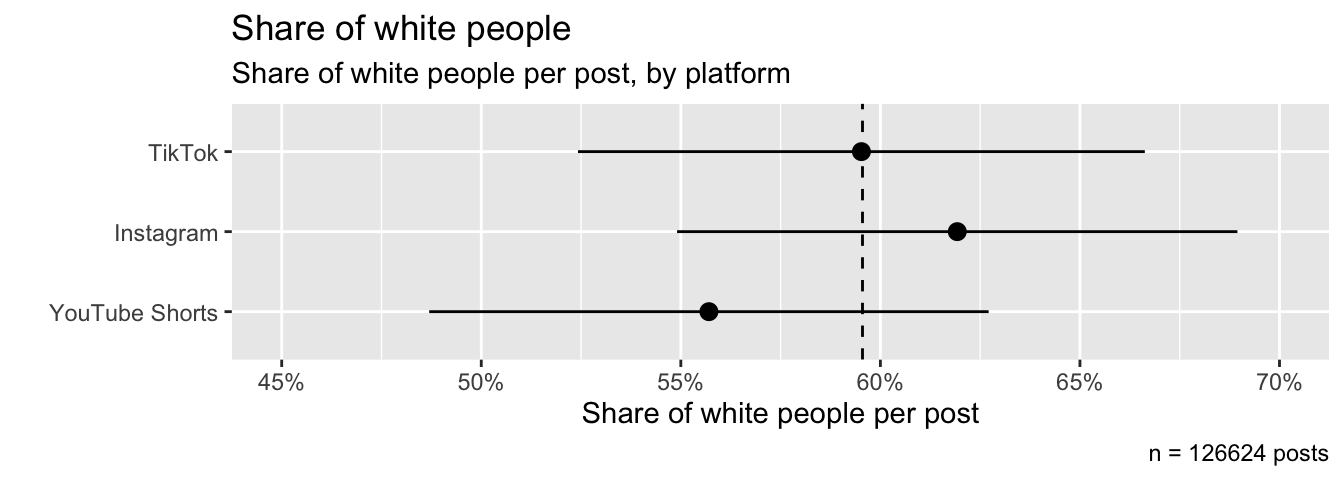
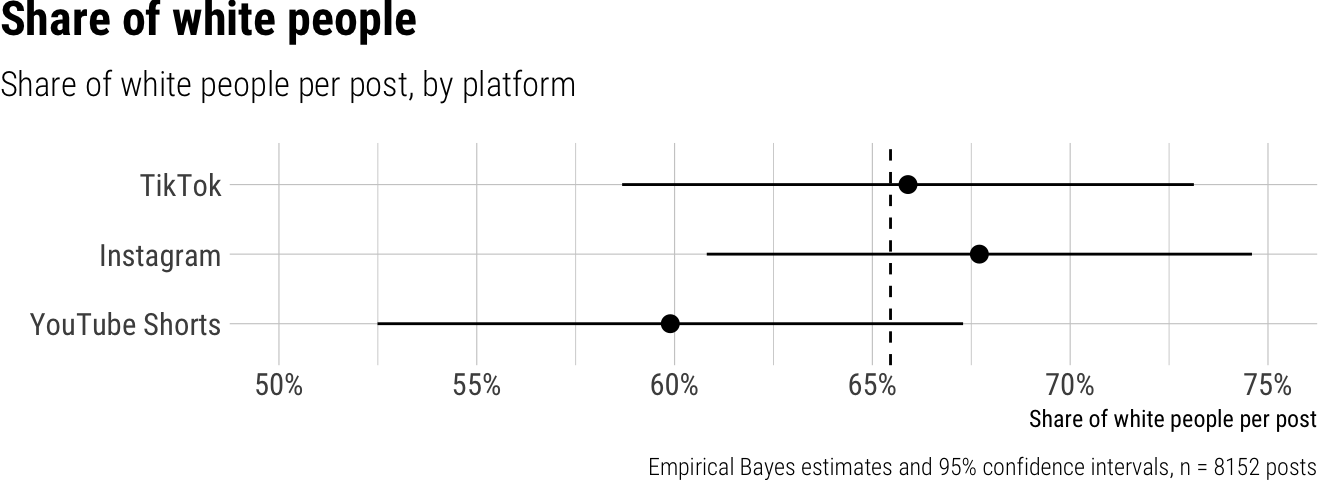
Built site for gh-pages

diff --git a/diversity.html b/diversity.html
@@ -472,7 +472,7 @@ AI summaries
 <h2 class="anchored" data-anchor-id="gender">Gender</h2>
 <section id="gender-proportions" class="level3">
 <h3 class="anchored" data-anchor-id="gender-proportions">Gender proportions</h3>
-<p>We observed an overall average of <strong>34%</strong> for the share of visible women per short video post. Looking at differences across platforms, we found that TikTok posts featured the highest proportion of visible women at <strong>36%</strong>, which was significantly higher than Instagram at <strong>34%</strong> and YouTube Shorts at <strong>29%</strong>. When examining outlet types, digital and public broadcasters both showed a higher share of visible women, each at <strong>36%</strong>, while print and private broadcasters had a significantly lower share, both around <strong>33%</strong>. We also found substantial variation by country, with the share of visible women ranging from lows such as <strong>20%</strong> in South Korea and <strong>24%</strong> in Malaysia, to highs like <strong>49%</strong> in Sweden and <strong>50%</strong> in Norway.</p>
+<p>We found that, on average across all short video posts analyzed, visible women constituted <strong>34%</strong> of on-screen presence. This average, however, varied significantly across platforms, outlet types, and countries. Regarding platforms, we observed that TikTok posts featured visible women <strong>36%</strong> of the time, and Instagram posts had <strong>35%</strong>, while YouTube Shorts showed a notably lower share at <strong>29%</strong>, a statistically significant <strong>5-percentage point</strong> difference compared to TikTok. When examining outlet types, digital and public broadcasters presented women similarly, both around <strong>37%</strong>. In contrast, print outlets featured women in <strong>34%</strong> of posts, and private broadcasters showed them in <strong>32%</strong> of posts, with both print and private broadcasters having a significantly lower share of visible women compared to digital outlets (by <strong>4</strong> and <strong>5 percentage points</strong>, respectively). Finally, the share of visible women per post varied substantially across countries, ranging from a low of <strong>24%</strong> in South Korea to a high of <strong>45%</strong> in Norway.</p>
 <div class="tabset-margin-container"></div><div class="panel-tabset">
 <ul class="nav nav-tabs" role="tablist"><li class="nav-item" role="presentation"><a class="nav-link active" id="tabset-1-1-tab" data-bs-toggle="tab" data-bs-target="#tabset-1-1" role="tab" aria-controls="tabset-1-1" aria-selected="true" aria-current="page">Gender proportions by platform</a></li><li class="nav-item" role="presentation"><a class="nav-link" id="tabset-1-2-tab" data-bs-toggle="tab" data-bs-target="#tabset-1-2" role="tab" aria-controls="tabset-1-2" aria-selected="false">by outlet type</a></li><li class="nav-item" role="presentation"><a class="nav-link" id="tabset-1-3-tab" data-bs-toggle="tab" data-bs-target="#tabset-1-3" role="tab" aria-controls="tabset-1-3" aria-selected="false">by country</a></li></ul>
 <div class="tab-content">
@@ -517,7 +517,7 @@ AI summaries
 <h2 class="anchored" data-anchor-id="age">Age</h2>
 <section id="average-person-age" class="level3">
 <h3 class="anchored" data-anchor-id="average-person-age">Average person age</h3>
-<p>We found that the overall average age of persons featured in short video posts was <strong>34</strong> years. Examining differences by platform, we observed a statistically significant contrast (p &lt; .001) where posts on YouTube Shorts featured individuals approximately <strong>1 year</strong> older, averaging <strong>35</strong> years, compared to those on TikTok, which averaged <strong>34</strong> years. Instagram posts also featured individuals around <strong>34</strong> years old, a difference that was small and not statistically significant compared to TikTok. For outlet types, we noted statistically significant differences (p &lt; .001): digital outlets featured the youngest individuals, with an average age of <strong>34</strong> years. In contrast, print outlets and private broadcasters featured older individuals, with average ages of <strong>35</strong> years, representing statistically significant differences of approximately <strong>0.6 years</strong> and <strong>0.4 years</strong> older, respectively, compared to digital outlets. Public broadcasters featured individuals around <strong>34</strong> years old, a small and non-significant difference compared to digital outlets. Across countries, the average age of featured individuals varied substantially, ranging from approximately <strong>30</strong> years in places like Norway and the Philippines to as high as <strong>38</strong> years in Poland and India.</p>
+<p>Our analysis of short video posts revealed that the average age of individuals featured across all posts was approximately <strong>34</strong> years. We observed statistically significant differences when examining platforms and outlet types. Posts on YouTube Shorts featured significantly older individuals, with an average age of about <strong>35</strong> years, compared to posts on TikTok, which featured individuals averaging around <strong>34</strong> years old. Differences in featured age between Instagram and the other platforms were small and not statistically significant. Regarding outlet type, digital outlets featured the youngest individuals, with an average age of approximately <strong>33</strong> years. In contrast, print, private broadcaster, and public broadcaster outlets all featured significantly older individuals compared to digital outlets, with average ages ranging from about <strong>34</strong> to <strong>35</strong> years. We found no statistically significant differences in featured age among print, private, and public broadcaster outlets themselves. Furthermore, we identified notable variations by country, with the average age of featured individuals ranging from as low as <strong>30</strong> years in countries like Sweden and Norway to as high as <strong>38</strong> years in Poland.</p>
 <div class="tabset-margin-container"></div><div class="panel-tabset">
 <ul class="nav nav-tabs" role="tablist"><li class="nav-item" role="presentation"><a class="nav-link active" id="tabset-2-1-tab" data-bs-toggle="tab" data-bs-target="#tabset-2-1" role="tab" aria-controls="tabset-2-1" aria-selected="true">Average person age by platform</a></li><li class="nav-item" role="presentation"><a class="nav-link" id="tabset-2-2-tab" data-bs-toggle="tab" data-bs-target="#tabset-2-2" role="tab" aria-controls="tabset-2-2" aria-selected="false">by outlet type</a></li><li class="nav-item" role="presentation"><a class="nav-link" id="tabset-2-3-tab" data-bs-toggle="tab" data-bs-target="#tabset-2-3" role="tab" aria-controls="tabset-2-3" aria-selected="false">by country</a></li></ul>
 <div class="tab-content">
@@ -562,7 +562,7 @@ AI summaries
 <h2 class="anchored" data-anchor-id="ethnicity">Ethnicity</h2>
 <section id="share-of-white-people" class="level3">
 <h3 class="anchored" data-anchor-id="share-of-white-people">Share of white people</h3>
-<p>We found that, on average, short video posts featured white people in <strong>60%</strong> of their content. Across platforms, observed differences in the share of white people featured were largely small and not substantially meaningful. However, for outlet types, we did find some statistically significant contrasts: private broadcasters featured a higher share of white people than digital outlets, by 1-3 percentage points, and public broadcasters also featured a higher share than digital outlets, by 2-4 percentage points. Other comparisons between outlet types, such as print versus digital, showed only small and non-meaningful differences. Finally, we observed substantial variation by country, with the share of white people featured ranging widely from as low as <strong>14%</strong> in South Korea and <strong>18%</strong> in Taiwan, to as high as <strong>88%</strong> in Denmark and <strong>89%</strong> in Poland.</p>
+<p>We observed that short video posts, on average, featured white people in <strong>65%</strong> of their content. While we examined potential variations across platforms, such as Instagram posts predicting <strong>68%</strong> white representation compared to YouTube Shorts at <strong>60%</strong>, and across different outlet types, including digital outlets at <strong>63%</strong> and print outlets at <strong>67%</strong>, we found that these differences were small and not statistically significant. However, we identified substantial and statistically significant differences in the share of white people featured per post across countries. For instance, countries in Asia-Pacific and Africa generally exhibited lower rates, with South Korea showing the lowest at <strong>16%</strong>, followed by Taiwan at <strong>18%</strong>, and Kenya at <strong>20%</strong>. In stark contrast, several European countries displayed the highest proportions, notably the Czech Republic at <strong>89%</strong>, Denmark at <strong>88%</strong>, and Poland at <strong>88%</strong>.</p>
 <div class="tabset-margin-container"></div><div class="panel-tabset">
 <ul class="nav nav-tabs" role="tablist"><li class="nav-item" role="presentation"><a class="nav-link active" id="tabset-3-1-tab" data-bs-toggle="tab" data-bs-target="#tabset-3-1" role="tab" aria-controls="tabset-3-1" aria-selected="true">Share of white people by platform</a></li><li class="nav-item" role="presentation"><a class="nav-link" id="tabset-3-2-tab" data-bs-toggle="tab" data-bs-target="#tabset-3-2" role="tab" aria-controls="tabset-3-2" aria-selected="false">by outlet type</a></li><li class="nav-item" role="presentation"><a class="nav-link" id="tabset-3-3-tab" data-bs-toggle="tab" data-bs-target="#tabset-3-3" role="tab" aria-controls="tabset-3-3" aria-selected="false">by country</a></li></ul>
 <div class="tab-content">
